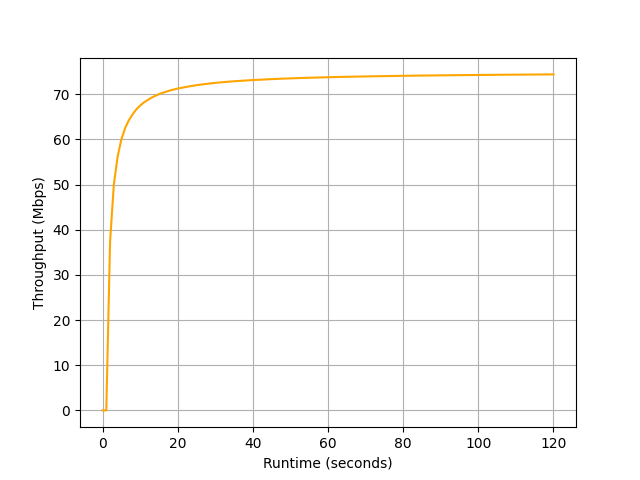
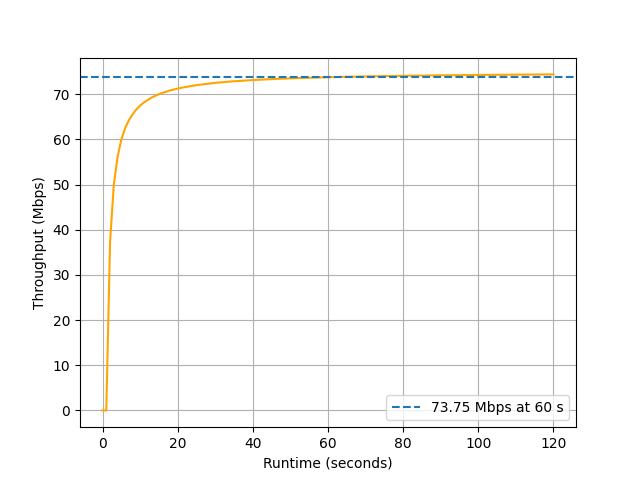
Draw a horizontal line indicating the proposed simulation time

diff --git a/plots/plot.py b/plots/plot.py
@@ -21,10 +21,14 @@ plt.figure()
 duration = pre_results['duration']
 throughput = pre_results['throughput']
 plt.plot(duration, throughput, color='orange')
+X = 60  # x value of horizontal line
+y_at_x = throughput[duration == X].iloc[0]
+plt.axhline(y=y_at_x, linestyle='--', label=f'{y_at_x:.2f} Mbps at {X} s')
 
 # plt.title(f"Runtime vs. UDP Throughput with {propagation_model} over {distance} m")
 plt.xlabel("Runtime (seconds)")
 plt.ylabel("Throughput (Mbps)")
+plt.legend()
 plt.grid(True)
 plt.savefig(os.path.join(PLOTS_DIR, 'runtime_vs_throughput.png'))
 
